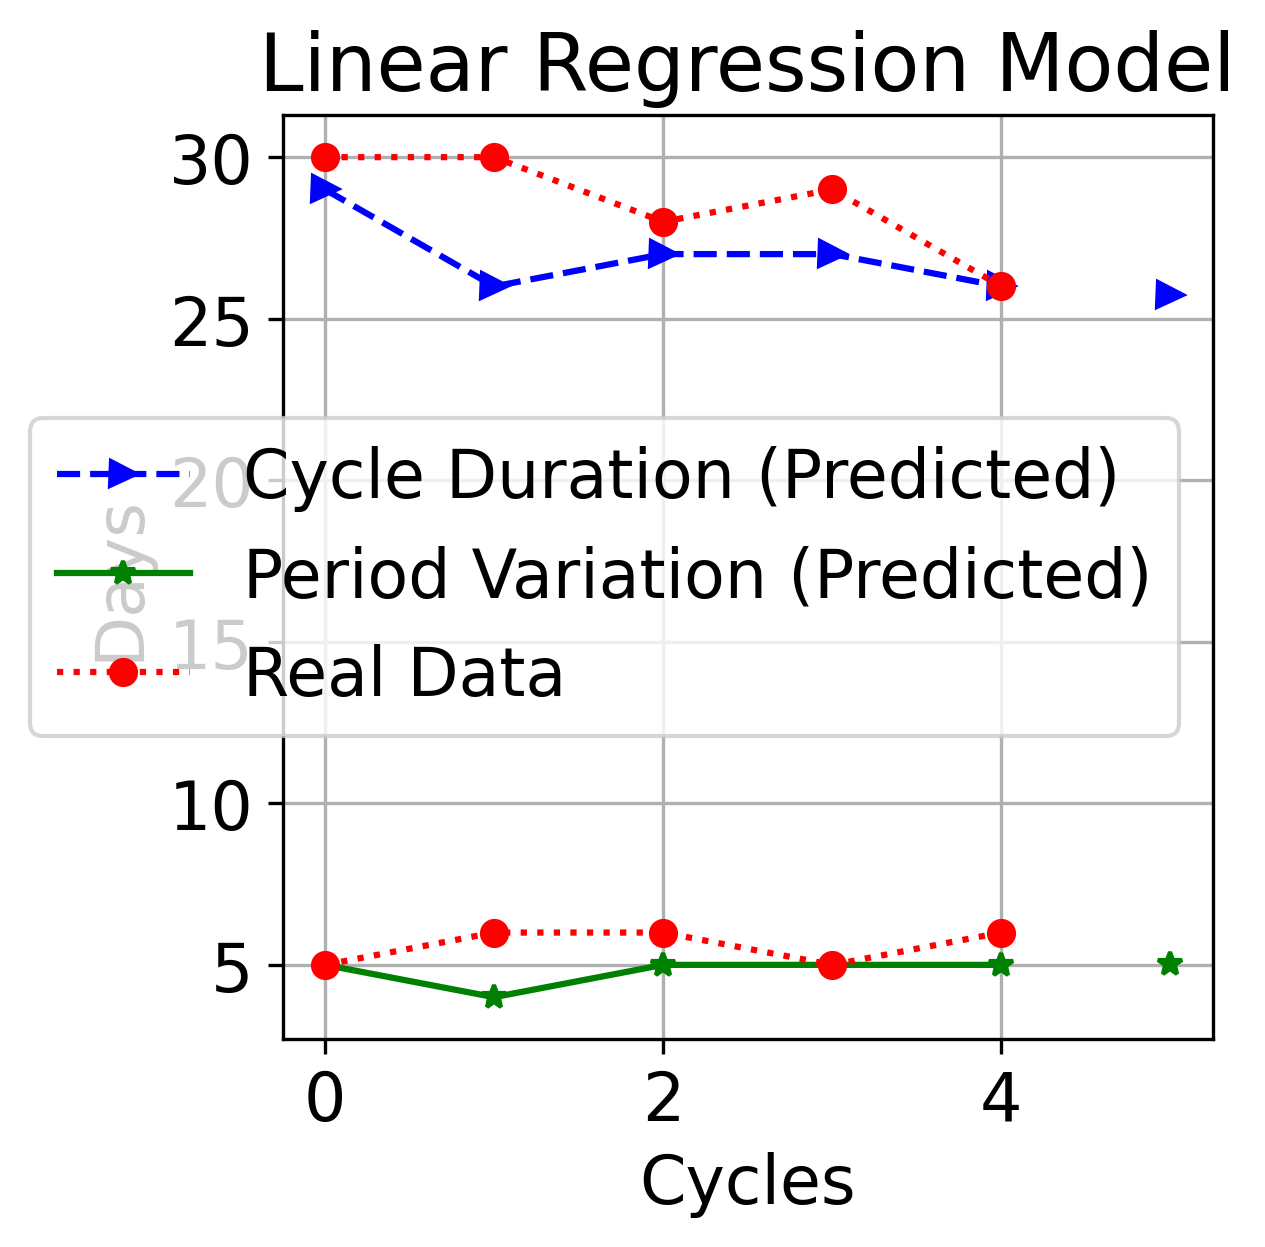
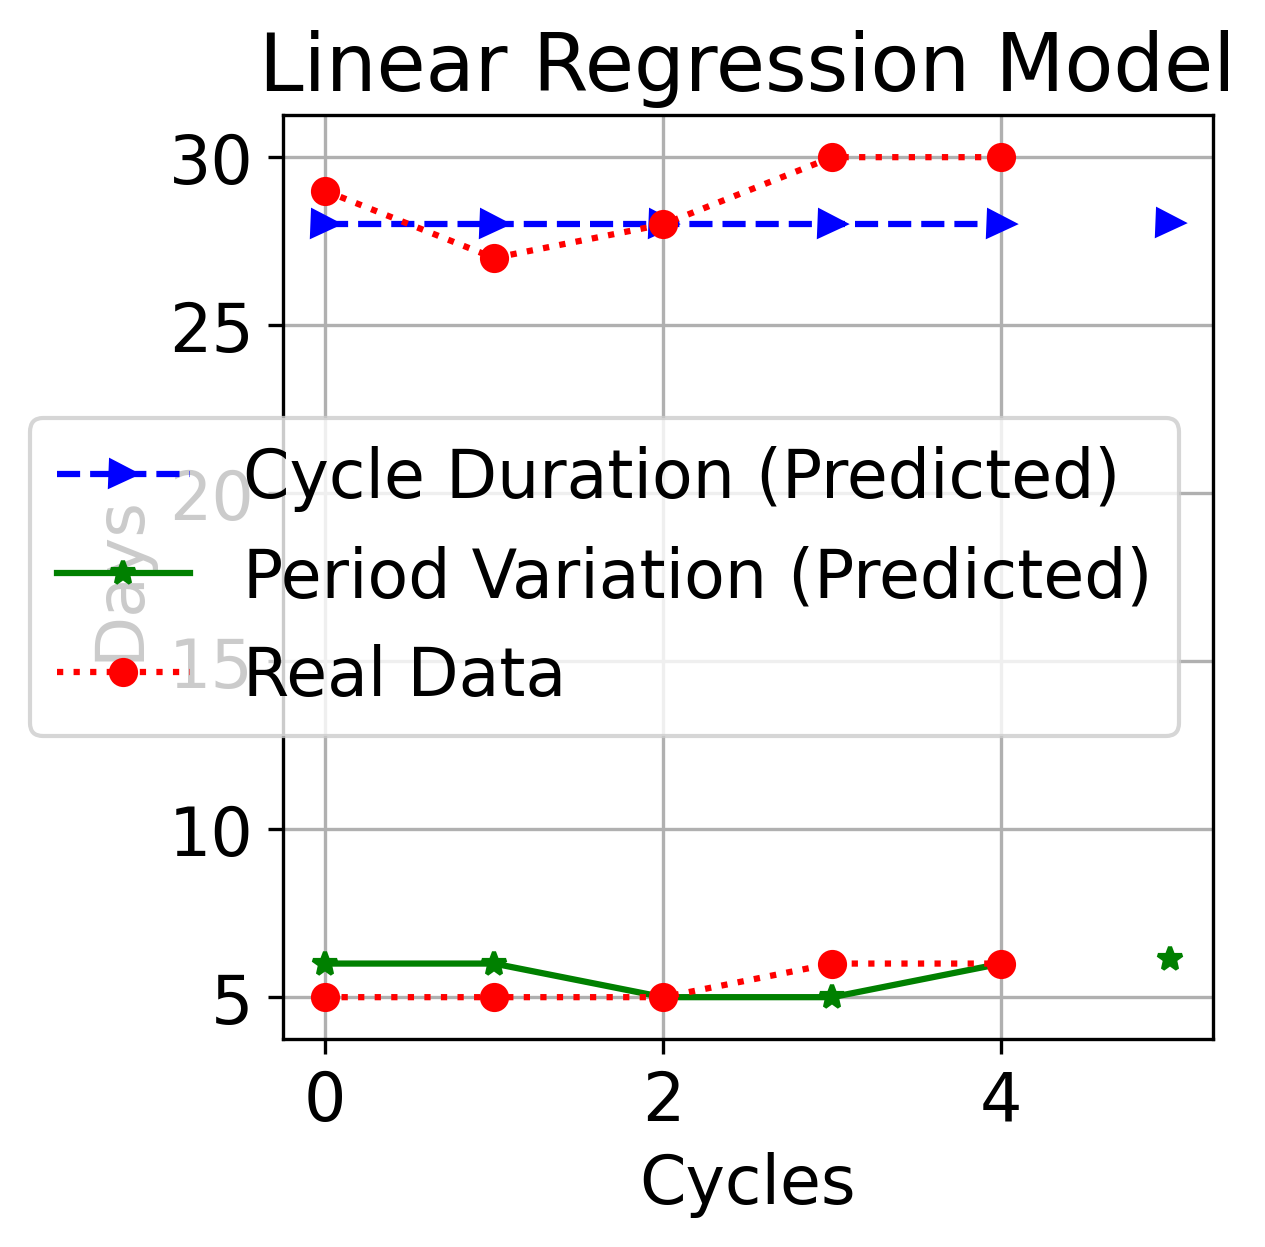
connected sql to model

diff --git a/Rujuta/utils.py b/Rujuta/utils.py
@@ -4,7 +4,46 @@ import pandas as pd
 import numpy as np
 from random import randint
 from sklearn.model_selection import train_test_split
-#tfgvjh
+
+def generate_synthetic_data(duration_cycle, start_day, year, start_month_index=1, number_of_cycle=5, period_duration=30, cycle_interval=[5, 6], period_interval=[26, 30]):
+    """
+    function that generate the synthetic data
+
+        Args:
+            duration_cycle (int): duration of the cycle in days
+            start_day (int): day of the first cycle
+            year (int): year of the first cycle
+            start_month_index (int): month of the first cycle
+            number_of_cycle (int): number of cycles
+            period_duration (int): duration of the period between cycles in days
+            cycle_interval (list): interval of the duration of the cycle in days
+            period_interval (list): interval of the duration of the period between cycles in days
+
+        Return:
+            df (pd.DataFrame): dataframe with the synthetic data
+        """
+    data_frame = pd.DataFrame(columns=['M', 'Day', 'Year', 'Duration'])
+
+    start_time = DateTime(year, start_month_index, start_day, 1, 0, 0)
+    end_time = start_time+duration(days=duration_cycle)
+
+    for _ in range(0, number_of_cycle+1):
+
+            data_frame = pd.concat([data_frame, pd.DataFrame(np.array([[start_time.month, start_time.day, start_time.year, 'Starts']]),
+                                                             columns=['M', 'Day', 'Year', 'Duration'])],  ignore_index=True, axis=0)
+
+            data_frame = pd.concat([data_frame, pd.DataFrame(np.array([[end_time.month, end_time.day, end_time.year, 'Ends']]),
+                                                             columns=['M', 'Day', 'Year', 'Duration'])],  ignore_index=True, axis=0)
+
+            #TODO(Cibely): Make the durantion_cycle and period_duration be random values
+            duration_cycle = randint(cycle_interval[0], cycle_interval[1])
+            period_duration = randint(period_interval[0], period_interval[1])
+            
+            start_time = start_time+duration(days=period_duration)
+            end_time = start_time+duration(days=duration_cycle)
+
+    return data_frame
+
 
 def calculate_period_length(dates, dates_numbers):
     """
@@ -18,9 +57,9 @@ def calculate_period_length(dates, dates_numbers):
         period_length (list): list of length of the period in days
     """
     period_length = []
-    for index in range(0,dates_numbers,2):
-        period_length.append((dates[index+1] - dates[index]).days)
-
+    for index in range(0,dates_numbers):
+        period_length.append((dates.iloc[index]['End'] - dates.iloc[index]['Start']).days) 
+    #print(period_length)
     return period_length
 
 
@@ -36,9 +75,9 @@ def calculate_cycle_length(dates, dates_numbers):
         cycle_length (list): list of length of the cycle in days
     """
     cycle_length = []
-    for index in range(0,dates_numbers-2,2):
-        cycle_length.append((dates[index+2] - dates[index]).days)
-
+    for index in range(0,dates_numbers-1):
+        cycle_length.append((dates.iloc[index+1]['Start'] - dates.iloc[index]['Start']).days)
+    #print(cycle_length)
     return cycle_length
 
 
@@ -51,20 +90,16 @@ def calculate_datatime(dataset):
 
     Returns:
         formatted_dataset (list): list with the features
-    """
+    """    
+    period_length=calculate_period_length(dataset, len(dataset))
+    cycle=calculate_cycle_length(dataset, len(dataset))
 
-    dates_format=pd.to_datetime(dict(year=dataset.Year, month=dataset.M, day=dataset.Day))
-    
-    #print(dates_format)
-    period_length=calculate_period_length(dates_format, len(dataset))
-    cycle=calculate_cycle_length(dates_format, len(dataset))
-    
     formatted_dataset=[]
     index=0
-    for date_index in range(0,len(dates_format)-2,2):
-        formatted_dataset.append([dates_format[date_index].date(), cycle[index], period_length[index]])
+    for date_index in range(0,len(dataset)-1):
+        formatted_dataset.append([dataset.loc[date_index]['Start'].date(), cycle[index], period_length[index]])
         index+=1
-    #print(formatted_dataset)
+
     return formatted_dataset
 
 
@@ -109,3 +144,68 @@ def generate_final_features(dataset):
     dataset_with_datatime = calculate_datatime(dataset)
 
     return prepared_the_features(dataset_with_datatime)
+
+def split_dataset(features, labels, test_size=0.2, random_state=0, reshape=True): 
+    """
+    function that split the dataset
+
+    Args:
+        features (np.array): array with the features
+        labels (np.array): array with the labels
+        test_size (float): percentage of the test size
+        random_state (int): random state
+
+    Returns:
+        train_features (np.array): array with the train features
+        test_features (np.array): array with the test features
+        train_labels (np.array): array with the train labels
+        test_labels (np.array): array with the test labels
+    """
+
+    
+    train_features, test_features, train_labels, test_labels = train_test_split(features, labels, test_size=test_size, random_state=random_state)
+    train_features = np.array(train_features)
+    test_features = np.array(test_features)
+    train_labels = np.array(train_labels)
+    test_labels = np.array(test_labels)
+    if reshape:
+        train_features = train_features.reshape(train_features.shape[0], train_features.shape[1]*train_features.shape[2])
+        test_features = test_features.reshape(test_features.shape[0], test_features.shape[1]*test_features.shape[2])
+        train_labels = train_labels.reshape(train_labels.shape[0], train_labels.shape[1]*1)
+        test_labels = test_labels.reshape(test_labels.shape[0], test_labels.shape[1]*1)
+
+    return train_features, test_features, train_labels, test_labels
+
+def create_dataset(dataset, look_back=1):
+    """ 
+        This function is used to create dataset for LSTM model
+        Args:
+            dataset: The dataset
+            look_back: The number of previous time steps to use as input variables to predict the next time period
+        Returns:
+            dataX: The input data
+            dataY: The output data
+    """
+    dataX, dataY = [], []
+    for i in range(len(dataset)-look_back-1):
+        a = dataset[i:(i+look_back), 0]
+        dataX.append(a)
+        dataY.append(dataset[i + look_back, 0])
+    return np.array(dataX), np.array(dataY)
+
+
+def convet2dataframe(data, columns):
+    """
+    function that convert the data to dataframe
+
+    Args:
+        data (np.array): array with the data
+        columns (list): list with the columns
+
+    Returns:
+
+    """
+    data = data.reshape(1,-1,2)
+    data_frame = pd.DataFrame(data[0], columns=columns)
+    data_frame['time'] = data_frame.index
+    return data_frame

diff --git a/Rujuta/linear_regression.py b/Rujuta/linear_regression.py
@@ -11,11 +11,14 @@ from math import sqrt
 
 if __name__ == '__main__':
     # Open synthetic dataset
-    df = pd.read_csv('Rujuta/synthetic_data.csv', sep=',', header=0)
+    df = pd.read_excel('Rujuta/SyntheticData.xlsx', usecols = [1,2])
+
     # Prepare data for linear regression/machine learning model
     periods_data = utils.calculate_datatime(df)
+    #print(periods_data)
+    
     features, labels = utils.generate_final_features(df)
-
+'''
     x_train, x_test, y_train, y_test = train_test_split(features, labels, test_size=0.2, random_state=10)
     # Reshape data for linear regression/machine learning model
     train_y = np.array(y_train)
@@ -59,7 +62,7 @@ if __name__ == '__main__':
     plt.title('Linear Regression Model')
     fig = plt.gcf()
     fig.savefig('Rujuta/linear.png', dpi=300, bbox_inches='tight')
-    plt.show()
+    #plt.show()
 
     error = abs(test_y - y_pred)
     plt.plot(error[:, 0], '-->', color='blue')
@@ -71,7 +74,7 @@ if __name__ == '__main__':
     plt.title('Linear Regression Model')
     fig = plt.gcf()
     fig.savefig('Rujuta/linear_error.png', dpi=300, bbox_inches='tight')
-    plt.show()
+    #plt.show()
 
     # Calculate RMSE (Root Mean Squared Error)
     rms = sqrt(mean_squared_error(test_y, y_pred))
@@ -80,3 +83,4 @@ if __name__ == '__main__':
     # Calculate MAE (Mean Absolute Error)
     mae = np.mean(np.abs((test_y - y_pred)))
     print('MAE: ', mae)
+'''

diff --git a/Rujuta/synthetic_data.py b/Rujuta/synthetic_data.py
@@ -1,0 +1,5 @@
+from utils import generate_synthetic_data
+
+dataset = generate_synthetic_data(duration_cycle=5, start_day=25, year=2021, start_month_index=1, number_of_cycle = 24, period_duration = 30)
+
+dataset.to_csv('Rujuta/synthetic_data.csv', index=False)
